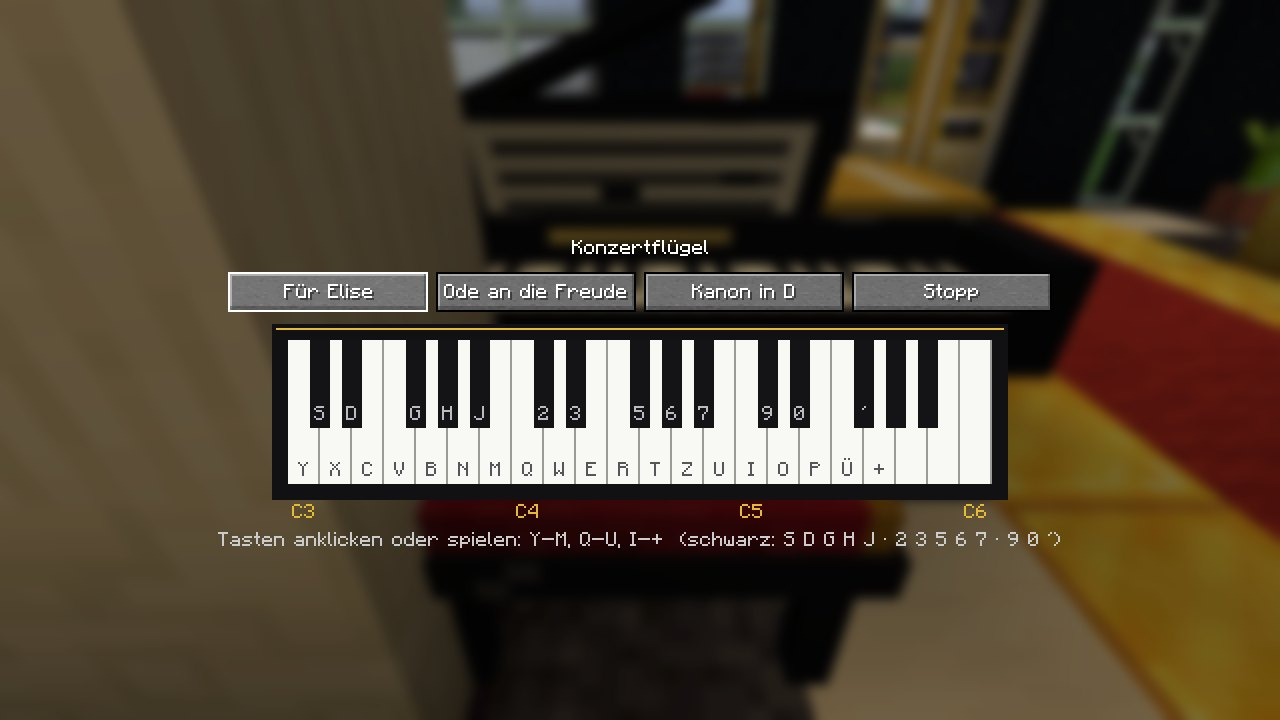
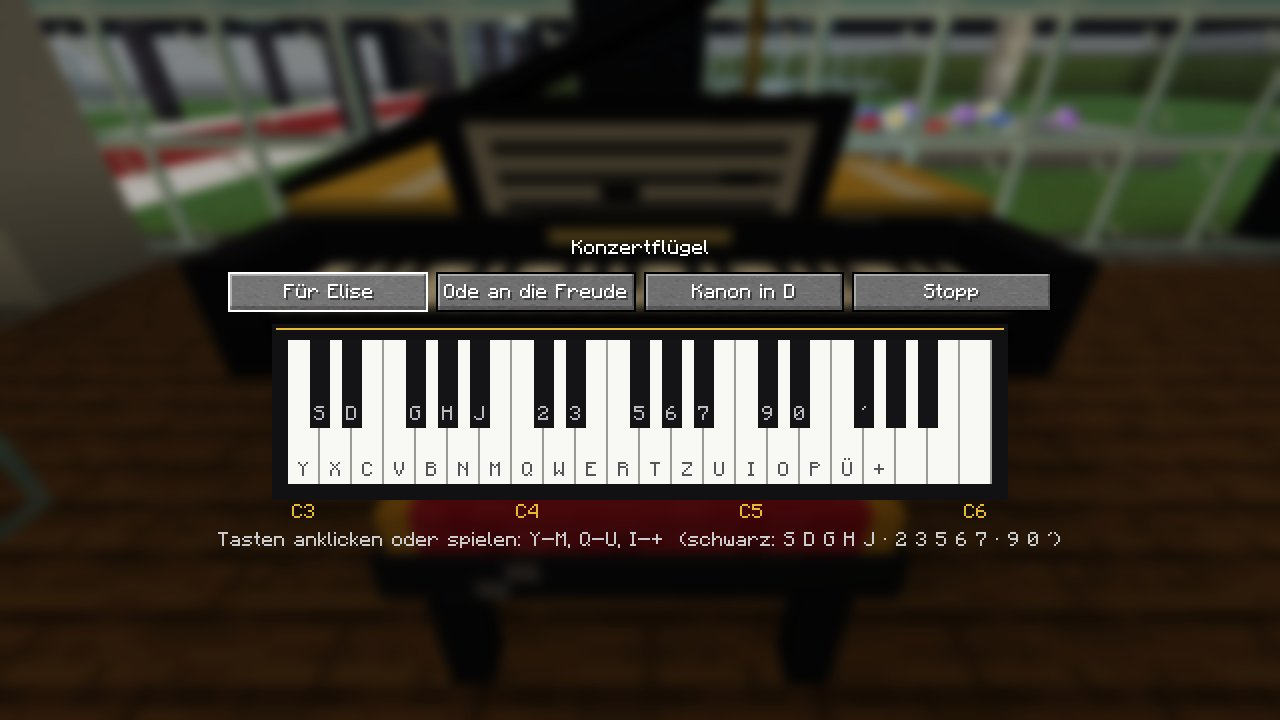
README mit Flügel im Wohnzimmer, Esszimmer, Grillecke und Schublade; Trailer-Drehbuch angepasst
- Neue README-Fotos (fotos035.txt): Ballsaal ohne Flügel, Flügel im Wohnzimmer und Penthouse,
  Spielfenster am Wohnzimmer-Flügel, Esszimmer, Grillecke mit sitzender Figur, Schublade
- Trailer-Drehbuch: Kapitel Ballsaal, Konzertflügel im Wohnzimmer und Esszimmer
- Neuigkeiten für 0.3.5 in .github/neu.md, Projektstand

Claude-Session: https://claude.ai/code/session_01Y2sSJbBbETjTDjiGSSJfSm

Verfasst mit Claude 🤖

diff --git a/tools/ingame/trailer_szenario.py b/tools/ingame/trailer_szenario.py
@@ -2,7 +2,7 @@
 """Schreibt das Drehbuch für den Trailer der Mod (tools/ingame/szenarien/trailer.txt).
 
 Kürzer und schneller als der Rundgang (video_szenario.py): kurze Kamerafahrten mit großen Schlagzeilen,
-dazwischen die besten Vorführungen (Tor, Portaltür, Konzertflügel, Fernseher mit Video und Fernbedienung, Geheimclub,
+dazwischen die besten Vorführungen (Tor, Portaltür, Ballsaal, Konzertflügel im Wohnzimmer, Esszimmer, Fernseher mit Video und Fernbedienung, Geheimclub,
 Butler, Auto, Hubschrauber, Handy mit Navi, Bodyguards, Straße zum Dorf, Agenten-Waffen) und am Ende die Villa bei
 Sonnenuntergang. Der Fernseher spielt ein Video von der Platte (YouTube ist beim Dreh nicht erreichbar), in Zeitlupe.
 
@@ -74,10 +74,15 @@ z("server /gamemode creative", "server /villa ort 55 26.5 76 180 2", "warte 1", 
   "server /gamemode spectator")
 fahrt(3, (55, 27.6, 70, 180, 2), (55.5, 27.6, 65.5, 192, 5))
 
-titel("Ein Ballsaal mit Konzertflügel, der wirklich spielt")
-z("server /villa ort 58.5 26 60.4 0 30", "server /gamemode creative", "warte 1", "klick", "warte 1", "linksklick 376 292",
+titel("Ein Ballsaal mit Kronleuchtern")
+zufahren(4, 51.5, 29, 66, 200, 14, zurueck=0.8, schwenk=18)  # dahinter liegt gleich die Südwand
+# Der Flügel steht seit 0.3.5 im Wohnzimmer, gleich links hinter der Tür aus dem Ballsaal (Bank bei x 44, z 63)
+titel("Ein Konzertflügel, der wirklich spielt")
+z("server /villa ort 44.5 26 62.4 0 30", "server /gamemode creative", "warte 1", "klick", "warte 1", "linksklick 376 292",
   "warte 1", "taste Escape", "server /gamemode spectator")
-zufahren(6, 54.5, 27.8, 58.5, -36, 18, zurueck=2.5, schwenk=-12)
+zufahren(5, 40.5, 27.4, 60.5, -40, 22, zurueck=2.5, schwenk=-12)
+titel("Ein Esszimmer für 18 Gäste")
+zufahren(4, 70.5, 29, 52, 0, 38, zurueck=2, schwenk=10)
 
 titel("Ein Butler, der für dich arbeitet")
 z("server /villa ort 57.5 26 66 180 5", "warte 1",

diff --git a/README.md b/README.md
@@ -27,13 +27,13 @@
 <img src="docs/bilder/villa_drohne.jpg" alt="Die Villa aus der Luft" width="100%">
 
 <a href="docs/trailer.mp4"><img src="docs/bilder/trailer.jpg" alt="Trailer ansehen (3 Minuten, echtes Minecraft)" width="100%"></a>
-<p align="center"><sub>▶ Trailer ansehen: Villa, Fernseher mit Video und Fernbedienung, Butler, Straßen, Hubschrauber, Handy mit Navi, Bodyguards und Agenten-Ausrüstung</sub></p>
+<p align="center"><sub>▶ Trailer ansehen: Villa, Flügel, Esszimmer, Fernseher mit Video und Fernbedienung, Butler, Straßen, Hubschrauber, Handy mit Navi, Bodyguards und Agenten-Ausrüstung</sub></p>
 
 ## 🏛 Die Villa
 
 In **jeder neuen Welt** steht am Spawn deine Villa – egal welcher Welttyp. Das Gelände drumherum wird geebnet und weich an die Landschaft angeblendet. Du startest vor dem Tor, mit der Zugangskarte in der Tasche. Bestehende Welten bleiben unberührt.
 
-Wassergraben mit Brücke (wird bei Alarm zum Lava-Graben) · zwei Glaskuppel-Brunnen · Pool mit Abdeckung, Wasserrutsche und Strandliegen · Garten mit Grillecke · Ballsaal · Luxusküche · Nachtclub im Keller mit Geheimclub hinter dem Bücherregal (Show-Bühne mit Tänzerinnen an den Stangen) · Tiefgarage mit Drehteller · Penthouse mit XXL-Bett und Kino · Dachparty und Whirlpool · Hubschrauber-Landeplatz · Untergrundbunker mit Waffenkammer und Geldspeicher (Münzgrube mit Sprungbrett zum Hineinspringen).
+Wassergraben mit Brücke (wird bei Alarm zum Lava-Graben) · zwei Glaskuppel-Brunnen · Pool mit Abdeckung, Wasserrutsche und Strandliegen · Garten mit Grillecke und Teakbänken · Ballsaal · Wohnzimmer mit Konzertflügel · Esszimmer für 18 Gäste · Luxusküche · Nachtclub im Keller mit Geheimclub hinter dem Bücherregal (Show-Bühne mit Tänzerinnen an den Stangen) · Tiefgarage mit Drehteller · Penthouse mit XXL-Bett und Kino · Dachparty und Whirlpool · Hubschrauber-Landeplatz · Untergrundbunker mit Waffenkammer und Geldspeicher (Münzgrube mit Sprungbrett zum Hineinspringen).
 
 <table>
 <tr>
@@ -48,13 +48,17 @@ Wassergraben mit Brücke (wird bei Alarm zum Lava-Graben) · zwei Glaskuppel-Bru
 <td><img src="docs/bilder/haustuer.jpg" alt="Haustür"><br><sub><b>Haustür:</b> weiß-goldene Portaltür, die aufgleitet, wenn du davorstehst</sub></td>
 <td><img src="docs/bilder/garten_lounge.jpg" alt="Garten-Lounge"><br><sub><b>Garten-Lounge</b> im Westgarten mit Sofas, Marmortisch und Kronleuchter</sub></td>
 </tr>
+<tr>
+<td><img src="docs/bilder/strandliegen.jpg" alt="Strandliegen am Pool"><br><sub><b>Strandliegen</b> mit Sonnenschirmen am Pool</sub></td>
+<td><img src="docs/bilder/grillecke.jpg" alt="Grillecke mit Gartenbänken"><br><sub><b>Grillecke</b> mit Teak-Gartenbänken zum Hinsetzen</sub></td>
+</tr>
 </table>
 
 ### 🥂 Drinnen: Party und Luxus
 
 <table>
 <tr>
-<td width="50%"><img src="docs/bilder/ballsaal.jpg" alt="Ballsaal"><br><sub><b>Ballsaal</b> mit Kronleuchtern und Konzertflügel</sub></td>
+<td width="50%"><img src="docs/bilder/ballsaal.jpg" alt="Ballsaal"><br><sub><b>Ballsaal</b> mit Kronleuchtern und Sektturm</sub></td>
 <td width="50%"><img src="docs/bilder/club.jpg" alt="Nachtclub"><br><sub><b>Nachtclub</b> im Keller mit leuchtender Tanzfläche</sub></td>
 </tr>
 <tr>
@@ -62,7 +66,11 @@ Wassergraben mit Brücke (wird bei Alarm zum Lava-Graben) · zwei Glaskuppel-Bru
 <td><img src="docs/bilder/dachparty.jpg" alt="Dachparty"><br><sub><b>Dachparty</b> mit DJ-Pult und Tanzfläche</sub></td>
 </tr>
 <tr>
-<td><img src="docs/bilder/fluegel_spielen.jpg" alt="Konzertflügel spielen"><br><sub><b>Konzertflügel zum Spielen:</b> drei Oktaven mit Maus oder Tastatur, drei Stücke spielt er selbst</sub></td>
+<td><img src="docs/bilder/wohnzimmer_fluegel.jpg" alt="Konzertflügel im Wohnzimmer"><br><sub><b>Konzertflügel im Wohnzimmer:</b> gleich links, wenn du aus dem Ballsaal hereinkommst</sub></td>
+<td><img src="docs/bilder/fluegel_spielen.jpg" alt="Konzertflügel spielen"><br><sub><b>Zum Spielen:</b> drei Oktaven mit Maus oder Tastatur, drei Stücke spielt er selbst</sub></td>
+</tr>
+<tr>
+<td><img src="docs/bilder/esszimmer.jpg" alt="Esszimmer"><br><sub><b>Esszimmer:</b> Marmortafel mit 18 Lederstühlen zum Hinsetzen</sub></td>
 <td><img src="docs/bilder/geheimclub.jpg" alt="Geheimclub"><br><sub><b>Geheimclub</b> hinter dem Bücherregal: Show-Bühne mit Tänzerinnen an den Stangen</sub></td>
 </tr>
 </table>
@@ -76,11 +84,13 @@ Wassergraben mit Brücke (wird bei Alarm zum Lava-Graben) · zwei Glaskuppel-Bru
 </tr>
 <tr>
 <td><img src="docs/bilder/fernseher.jpg" alt="XXL-Fernseher"><br><sub><b>XXL-Fernseher:</b> YouTube-Link einfügen, das Video läuft im Fernseher</sub></td>
-<td><img src="docs/bilder/strandliegen.jpg" alt="Strandliegen am Pool"><br><sub><b>Strandliegen</b> mit Sonnenschirmen am Pool</sub></td>
+<td><img src="docs/bilder/penthouse_fluegel.jpg" alt="Flügel im Penthouse"><br><sub><b>Zweiter Flügel</b> im Penthouse, zwischen Hausbar und Lounge</sub></td>
+</tr>
+<tr>
+<td><img src="docs/bilder/schublade.jpg" alt="Schublade im Nachttisch"><br><sub><b>Nachttisch mit Schublade:</b> Rechtsklick öffnet sie</sub></td>
+<td>🪑 Auf Sofas, Liegen, Esszimmerstühlen, Gartenbänken, Gaming-Stühlen und der Bettbank kann man sich mit <b>Rechtsklick</b> hinsetzen, <b>Schleichen</b> steht wieder auf.<br><br>🗄 In die <b>Schublade</b> jedes Nachttischs passen 9 Stapel, zum Beispiel Zugangskarte, Uhr und Gold. Beim Abbauen fällt der Inhalt heraus.</td>
 </tr>
 </table>
-
-Auf Sofas, Liegen und der Bettbank kann man sich mit **Rechtsklick** hinsetzen, **Schleichen** steht wieder auf.
 
 ### 📺 Fernseher: YouTube im Spiel, mit Fernbedienung
 
@@ -123,7 +133,7 @@ Rechtsklick auf den Fernseher (oder mit der **Fernbedienung**), YouTube-Link ein
 | 🪪 **Zugang** | Zugangskarte · Kartenleser · Tastenfeld mit eigenem Code · automatische Tore · Portaltür als Haustür · Rollläden · Schiebetüren · Privattür (nur Bewohner) · Sicherheitstüren für Büro und Kontrollraum und Banktür im Bunker (nur mit Zugangskarte, bleiben offen, bis du sie schließt) |
 | 🛗 **Im Haus** | Aufzug zu allen Etagen und in den Bunker · Überwachungsraum mit Kameras · Geheimgang hinter dem Bücherregal · magischer Eingang zum Geheimclub (schleichen) · Panikraum · Fluchttunnel |
 | 💎 **Tresor** | Schmuck-Tresor mit Fallen und versteckten Entschärfknöpfen |
-| 🛁 **Komfort** | Konzertflügel zum Spielen · Poolabdeckung · Wasserrutsche mit Schub · beheizter Whirlpool · Badewanne zum Reinsetzen · Toilette mit Spülung · Kamin · Garagentor |
+| 🛁 **Komfort** | Zwei Konzertflügel zum Spielen · Nachttische mit Schublade · Poolabdeckung · Wasserrutsche mit Schub · beheizter Whirlpool · Badewanne zum Reinsetzen · Toilette mit Spülung · Kamin · Garagentor |
 
 Alles funktioniert für jeden Spieler – auch auf einem Server mit Freunden.
 

diff --git a/STAND.md b/STAND.md
@@ -1,6 +1,6 @@
 # Stand (Übergabe)
 
-_Zuletzt aktualisiert: 2026-10-26, 08:40 Uhr (Philip ist wach)_
+_Zuletzt aktualisiert: 2026-10-26, 09:15 Uhr (Philip ist wach)_
 
 ## Erledigt
 
@@ -214,7 +214,21 @@ _Zuletzt aktualisiert: 2026-10-26, 08:40 Uhr (Philip ist wach)_
   (Server-Mods holen: `tools/ingame/server_mods_holen.sh 1.21.8`).
 - Offen: 1.21–1.21.5 (ohne Dialogfenster → Truhen-Menüs), Paper-Plugin (Philip fragen, ob nötig).
 
-## Version 0.3.4 (in Arbeit, Philips Wünsche vom 26.10. morgens)
+## Version 0.3.5 (Philips Wünsche vom 26.10. vormittags)
+
+- Nachttisch mit Schublade: `moebel/NachttischBlock` (DekoBlock + EntityBlock, Rechtsklick öffnet) und
+  `moebel/SchubladeBlockEntity` (9 Plätze, `ChestMenu` GENERIC_9x1; Speichern ab 1.21.6 ValueOutput/ValueInput, davor
+  CompoundTag). In deko.py `SCHUBLADE = {"nachttisch"}` → Eintrag „schublade“ in deko_bloecke.json, `ModDeko` baut den
+  Block. Alte Welten: `Level.getBlockEntity` legt die fehlende Schublade beim ersten Öffnen an.
+- Flügel: Ballsaal leer, `konzertfluegel(x0, y, z0, tasten)` in villa.py; Wohnzimmer (43, EG+1, 64, Tasten Nord, Bank
+  bei 44/63, gleich links hinter der Tür aus dem Ballsaal) und Penthouse (43, DACH+1, 44, Tasten Ost, Bank bei 46/45).
+- Neue Sitzmöbel (VERBUND in deko.py): `esszimmerstuhl` (Sitzhöhe 9) im Esszimmer (x 66–74, z 55 und 59) und
+  `gartenbank` (Sitzhöhe 7) an der Grillecke; Gaming-Stühle im Kontrollraum und Bunker statt Steintreppen.
+- Tests: `moebel035.txt` (alles OK, 26.3), README-Fotos `fotos035.txt`. Alle 17 Versionen übersetzen.
+- README: Bilder Ballsaal (ohne Flügel), Wohnzimmer-Flügel, Spielfenster, Esszimmer, Penthouse-Flügel, Schublade,
+  Grillecke (mit sitzender Figur); Trailer mit Kapiteln „Ballsaal“, „Konzertflügel“ (Wohnzimmer) und „Esszimmer“.
+
+## Version 0.3.4 (veröffentlicht 26.10. morgens: https://github.com/MoinMornhart/Minecraft-aber-du-bist-stinkend-Reich/releases/tag/v0.3.4)
 
 - Bodyguards: echter Eisengolem + Überzug. `BodyguardRenderer` legt beim ersten Zeichnen
   `textures/entity/bodyguard_smoking.png` (nur Sakko, Hose, Hemd mit Krawatte, rote Blume, Sonnenbrille; Rest

diff --git a/.github/neu.md b/.github/neu.md
@@ -1,3 +1,10 @@
+### Neu in 0.3.5
+
+- **Nachttisch mit Schublade:** Rechtsklick auf einen Nachttisch öffnet seine Schublade mit 9 Plätzen, zum Beispiel für Zugangskarte, Uhr und Gold. Beim Abbauen fällt der Inhalt heraus. Das geht auch mit Nachttischen in bestehenden Welten.
+- **Konzertflügel umgezogen:** Der Flügel steht nicht mehr im Ballsaal, sondern im Wohnzimmer, gleich links, wenn du aus dem Ballsaal hereinkommst. Ein zweiter Flügel steht im Penthouse zwischen Hausbar und Lounge.
+- **Esszimmer und Grillecke:** neue Esszimmerstühle aus weißem Leder mit Goldrahmen (18 an der Marmortafel) und Teak-Gartenbänke an der Grillecke. Auf beiden kann man sich mit Rechtsklick hinsetzen. Die Holztreppen sind weg, auch im Kontrollraum und im Bunker (dort jetzt Gaming-Stühle).
+- **Trailer und README** zeigen die neuen Möbel.
+
 ### Neu in 0.3.4
 
 - **YouTube im Fernseher:** Link einfügen, „Im Fernseher abspielen“ – das Video läuft direkt im Spiel, der Ton kommt aus dem Fernseher, alle in der Nähe sehen dieselbe Stelle. Anhalten, Weiter, Spulen und Stopp im Menü. Beim ersten Video fragt die Mod einmal, ob sie die kostenlosen Hilfsprogramme yt-dlp, FFmpeg und Deno (zusammen etwa 200 MB, von GitHub) laden darf.
